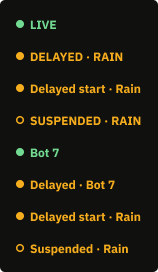
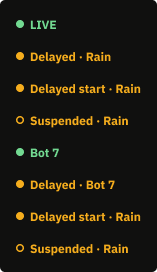
S157 checkpoint (parked for ratification): owner answers Q7, Q8; no open questions left
Records the owner's 2026-11-22 answers in draft game-shell A7: LIVE stays
beside the teams on a phone (Q7), and the top bar's Delayed and Suspended
labels become sentence case like the delayed start (Q8). Edits the
game-status-marker top-bar variants to match and re-exports the states sheet
and the delayed and suspended game frames. Every open question is answered;
the draft waits only on the owner's go-ahead.

Claude-Session: https://claude.ai/code/session_01FZHj4EBjV739EMZ8H6ygfG

diff --git a/docs/v3/visual/game-shell/amendments/A7.md b/docs/v3/visual/game-shell/amendments/A7.md
@@ -2,7 +2,7 @@
 
 Amends the ratified [game-shell design](../DESIGN.md) (ratified 2026-10-14) and its amendments [A1](A1.md)–[A6](A6.md), and, for the scoreboard's game rows, the ratified [shell-scoreboard design](../../shell-scoreboard/DESIGN.md) and its amendments. Story **S157**; a build story, added once this amendment is ratified, builds it. **Draft, not ratified.** Nothing here is ratified until the owner says so; until then the frames and the component are a proposal.
 
-**Adds:** the `game-status-marker` component set (Components page): the dot and label that say a game's status, in four states, `State=Live`, `State=Delayed`, `State=Delayed start` and `State=Suspended`, each in two places, `Place=Top bar` (inside the `game-topbar`) and `Place=Row` (the top-left of a scoreboard game row, the `Rich Scoreboard Module`). A delayed game reads "● DELAYED · RAIN" in the top bar and "● Delayed · Bot 3" on its row, with a steady `Accent` dot; a game whose start is delayed reads "● Delayed start · Rain" in its pre-game top bar (sentence case, owner, 2026-11-22, Q6) and "● Delayed start · Rain" on its row, with the same steady `Accent` dot; a suspended game reads "○ SUSPENDED · RAIN" in the top bar and "○ Suspended · Rain" on its row, with a steady `Accent` ring. On a phone, a delayed, delayed-start or suspended game's marker sits on its own line under the team names (owner, 2026-11-22, Q5): the `game-topbar` component now wraps, and holds a `status-line` (hidden unless a phone shows one of those three states) with a marker instance, below `NYY @ BOS`.
+**Adds:** the `game-status-marker` component set (Components page): the dot and label that say a game's status, in four states, `State=Live`, `State=Delayed`, `State=Delayed start` and `State=Suspended`, each in two places, `Place=Top bar` (inside the `game-topbar`) and `Place=Row` (the top-left of a scoreboard game row, the `Rich Scoreboard Module`). Every label but "LIVE" is sentence case (owner, 2026-11-22, Q6 and Q8). A delayed game reads "● Delayed · Rain" in the top bar and "● Delayed · Bot 3" on its row, with a steady `Accent` dot; a game whose start is delayed reads "● Delayed start · Rain" in its pre-game top bar and "● Delayed start · Rain" on its row, with the same steady `Accent` dot; a suspended game reads "○ Suspended · Rain" in the top bar and "○ Suspended · Rain" on its row, with a steady `Accent` ring. On a phone, a delayed, delayed-start or suspended game's marker sits on its own line under the team names (owner, 2026-11-22, Q5), while a game in progress keeps "● LIVE" beside the teams (owner, 2026-11-22, Q7): the `game-topbar` component now wraps, and holds a `status-line` (hidden unless a phone shows one of those three states) with a marker instance, below `NYY @ BOS`.
 **Overrides:** the live indicator drawn in the `game-topbar` ("● LIVE", S36 R6) and the live row's status ("● Bot 7", shell-scoreboard frames): both were copies of one dot and label, and both are now instances of `game-status-marker` at `State=Live`, which looks exactly as they did (an `Accent 2` dot, blinking, and its label). Neither is shown for a delayed or suspended game any more: the marker's other states replace them. Also overrides game-shell DESIGN's "No status" in the top bar for one pre-game case: a game whose start is delayed shows the marker before first pitch (owner, 2026-11-22, Q1); the `Rich Scoreboard Module`'s scheduled row holds a hidden `State=Delayed start` instance in its `status-group`, shown in place of the start time for such a game.
 **Repeals:** nothing.
 
@@ -14,13 +14,13 @@ Every export is a 1× PNG of the Figma frame with the same name, exported 2026-1
 
 | Export | Pairing | What it shows |
 | ------ | ------- | ------------- |
-| `status-marker-states.png` | — | The `game-status-marker` component set: `Place=Top bar` with `State=Live` ("● LIVE", `Accent 2` dot), `State=Delayed` ("● DELAYED · RAIN", `Accent` dot), `State=Delayed start` ("● Delayed start · Rain", `Accent` dot) and `State=Suspended` ("○ SUSPENDED · RAIN", an `Accent` ring), and `Place=Row` with the same four states ("● Bot 7", "● Delayed · Bot 7", "● Delayed start · Rain", "○ Suspended · Rain"). |
+| `status-marker-states.png` | — | The `game-status-marker` component set: `Place=Top bar` with `State=Live` ("● LIVE", `Accent 2` dot), `State=Delayed` ("● Delayed · Rain", `Accent` dot), `State=Delayed start` ("● Delayed start · Rain", `Accent` dot) and `State=Suspended` ("○ Suspended · Rain", an `Accent` ring), and `Place=Row` with the same four states ("● Bot 7", "● Delayed · Bot 7", "● Delayed start · Rain", "○ Suspended · Rain"). |
 | `status-marker-game-live-mobile.png` | mobile | For contrast, a game in progress (NYY @ BOS, Bot 7th): the top bar reads "● LIVE", the green dot blinking, as ratified. |
 | `status-marker-game-live-desktop.png` | desktop | The same game in progress beside the rail: "● LIVE". |
-| `status-marker-game-delayed-mobile.png` | mobile | The same game in a rain delay (MLB `I`, `IR` "Delayed: Rain"): the Live room shows everything so far, and the top bar reads "● DELAYED · RAIN", a steady `Accent` dot, on its own line under `NYY @ BOS` (the top bar grows from 56 to 80px), in place of "● LIVE" beside the teams. |
-| `status-marker-game-delayed-desktop.png` | desktop | The same delayed game beside the rail: "● DELAYED · RAIN". |
-| `status-marker-game-suspended-mobile.png` | mobile | The same game suspended (MLB `T`/`U`): the Live room shows everything so far, and the top bar reads "○ SUSPENDED · RAIN", a steady `Accent` ring, on its own line under `NYY @ BOS`, in place of "● LIVE" beside the teams. |
-| `status-marker-game-suspended-desktop.png` | desktop | The same suspended game beside the rail: "○ SUSPENDED · RAIN". |
+| `status-marker-game-delayed-mobile.png` | mobile | The same game in a rain delay (MLB `I`, `IR` "Delayed: Rain"): the Live room shows everything so far, and the top bar reads "● Delayed · Rain", a steady `Accent` dot, on its own line under `NYY @ BOS` (the top bar grows from 56 to 80px), in place of "● LIVE" beside the teams. |
+| `status-marker-game-delayed-desktop.png` | desktop | The same delayed game beside the rail: "● Delayed · Rain". |
+| `status-marker-game-suspended-mobile.png` | mobile | The same game suspended (MLB `T`/`U`): the Live room shows everything so far, and the top bar reads "○ Suspended · Rain", a steady `Accent` ring, on its own line under `NYY @ BOS`, in place of "● LIVE" beside the teams. |
+| `status-marker-game-suspended-desktop.png` | desktop | The same suspended game beside the rail: "○ Suspended · Rain". |
 | `status-marker-game-delayed-start-mobile.png` | mobile | The same game before first pitch, its start delayed by rain (MLB `P`, `PR` "Delayed Start: Rain"): no Live room yet (the pre-game tabs, Videos, Plays and Box), and the top bar reads "● Delayed start · Rain", a steady `Accent` dot, on its own line under `NYY @ BOS`, where a scheduled game shows no status. The game is in its live window, so the footer opens with A13's strip. |
 | `status-marker-game-delayed-start-desktop.png` | desktop | The same delayed start beside the rail: "● Delayed start · Rain" beside the teams, the pre-game tabs. |
 | `status-marker-scoreboard-mobile.png` | mobile | The scoreboard for Sep 21, 2026 with four games: Yankees–Red Sox suspended ("○ Suspended · Rain"), Dodgers–Padres in progress ("● Bot 7", green, blinking), Cubs–Brewers in a rain delay ("● Delayed · Bot 3"), each keeping its score and its slot (the count), and Phillies–Mets with a delayed start ("● Delayed start · Rain · Citi Field", in place of its start time), a scheduled row keeping its probable pitchers and win probability. |
@@ -30,17 +30,17 @@ Medium is not drawn: the top bar at medium is the desktop one (the marker beside
 
 ## Decisions
 
-Recorded as the owner stated them. On #79, 2026-11-20, of suspended games: "It should look like a live game in the UI in that the user should be able to see what happened so far in the game, but it should be clear to the user that the game is suspended and polling should continue for up to 6 hours." Asked how to handle it, the owner chose "Fix now, design after (Recommended)", offered as "A design story then draws a status label for suspended (and delayed) games for you to ratify". On #72, 2026-11-17, of rain delays: "Yes, a rain delay should show the live tab." On 2026-11-22, shown this draft's open questions, the owner answered Q1, Q3 and Q4 (quoted there); later the same day, shown screenshots of the redrawn frames, Q2, Q5 and Q6 (quoted there).
+Recorded as the owner stated them. On #79, 2026-11-20, of suspended games: "It should look like a live game in the UI in that the user should be able to see what happened so far in the game, but it should be clear to the user that the game is suspended and polling should continue for up to 6 hours." Asked how to handle it, the owner chose "Fix now, design after (Recommended)", offered as "A design story then draws a status label for suspended (and delayed) games for you to ratify". On #72, 2026-11-17, of rain delays: "Yes, a rain delay should show the live tab." On 2026-11-22, shown this draft's open questions, the owner answered Q1, Q3 and Q4 (quoted there); later the same day, shown screenshots of the redrawn frames, Q2, Q5 and Q6, and then, shown the phone top bars and the states image, Q7 and Q8 (all quoted there).
 
 What the draft proposes (agent's reading of those words, for the owner to ratify or change):
 
-- **Marker:** a dot and a label, as the ratified live indicator is: an 8px dot, then 6px, then the label in 12px IBM Plex Sans Bold, in the dot's colour, no pill and no background (VISUAL-DESIGN's live role). In the top bar "LIVE", "DELAYED · …" and "SUSPENDED · …" are upper case, as "LIVE" was ratified (the owner's Q3 answer has "SUSPENDED · RAIN" there and "Suspended · Rain" on the row); a delayed start is sentence case there too, "Delayed start · Rain" (owner, 2026-11-22, Q6; whether that answer also turns DELAYED and SUSPENDED into sentence case is open question 8); on a row every label is sentence case, as "Bot 7" is. Delayed, delayed start and suspended use `Accent` gold, a dot for a delay and a ring for a suspension, as drawn (owner, 2026-11-22, Q2).
+- **Marker:** a dot and a label, as the ratified live indicator is: an 8px dot, then 6px, then the label in 12px IBM Plex Sans Bold, in the dot's colour, no pill and no background (VISUAL-DESIGN's live role). In the top bar "LIVE" stays upper case, as ratified, and the other three are sentence case, so they read alike: "Delayed · Rain", "Delayed start · Rain", "Suspended · Rain" (owner, 2026-11-22, Q6 and Q8); on a row every label is sentence case, as "Bot 7" is. Delayed, delayed start and suspended use `Accent` gold, a dot for a delay and a ring for a suspension, as drawn (owner, 2026-11-22, Q2).
 - **One component:** `game-status-marker` is one component set with a variant per state and place, and every frame places an instance of it: the `game-topbar` component's `live-indicator` and the `Rich Scoreboard Module`'s live `status-group` now each hold an instance (`State=Live`), so the ratified frames look as they did, and a change to the marker reaches every frame. Before this the dot and label were drawn twice, as copies (the top bar's "● LIVE" and the row's "● Bot 7"); they were alike but for their words, so nothing had to be chosen between them.
-- **Codes:** `State=Live` is a game in progress: MLB `I` with no delay reason (`I` "In Progress", `IH` "Instant Replay"), a manager challenge `M` and an umpire review `N`. `State=Delayed` is an in-game delay: MLB `I` whose detailed state starts "Delayed" (`IR` "Delayed: Rain", and `I9`, `IA`–`IG`, `II`, `IL`, `IO`, `IP`, `IS`, `IT`, `IV`, `IY`, `IZ`); its label names MLB's reason after the dot ("DELAYED · RAIN"; plain "DELAYED" for `IO`, which gives none). `State=Delayed start` is a start delayed before first pitch: MLB `P` whose detailed state starts "Delayed Start" (`PR` "Delayed Start: Rain", and `P9`, `PA`–`PG`, `PI`, `PL`, `PO`, `PP`, `PS`, `PV`, `PY`), its label naming MLB's reason ("Delayed start · Rain"; plain "Delayed start" for `PO`, which gives none); `P` "Pre-Game" and `PW` "Warmup" get no marker (owner, 2026-11-22, Q1). `State=Suspended` is MLB's `T` and `U`, every code, its label naming MLB's reason after the dot ("SUSPENDED · RAIN" for `TR`/`UR`; plain "SUSPENDED" for `T`, `TO`, `U` and `UO`, which give none; owner, 2026-11-22, Q3) (B81's code list, `packages/domain/src/window.ts`).
-- **Top bar:** the marker takes the live indicator's place, after `NYY @ BOS` (on a phone, a delayed, delayed-start or suspended marker goes on its own line under the team names instead, left-aligned with `NYY`, owner, 2026-11-22, Q5; whether "● LIVE" moves there too on a phone is open question 7, and until it is answered it stays beside the teams, as ratified), for a game in progress, delayed or suspended; a game whose start is delayed shows it before first pitch, with the pre-game tabs and no Live room; any other scheduled game, and a final one, shows none, as ratified (game-shell DESIGN, "No status"). The Live tab stays for a game in progress, delayed or suspended, so the play so far stays visible (owner, 2026-11-20).
+- **Codes:** `State=Live` is a game in progress: MLB `I` with no delay reason (`I` "In Progress", `IH` "Instant Replay"), a manager challenge `M` and an umpire review `N`. `State=Delayed` is an in-game delay: MLB `I` whose detailed state starts "Delayed" (`IR` "Delayed: Rain", and `I9`, `IA`–`IG`, `II`, `IL`, `IO`, `IP`, `IS`, `IT`, `IV`, `IY`, `IZ`); its label names MLB's reason after the dot ("Delayed · Rain"; plain "Delayed" for `IO`, which gives none). `State=Delayed start` is a start delayed before first pitch: MLB `P` whose detailed state starts "Delayed Start" (`PR` "Delayed Start: Rain", and `P9`, `PA`–`PG`, `PI`, `PL`, `PO`, `PP`, `PS`, `PV`, `PY`), its label naming MLB's reason ("Delayed start · Rain"; plain "Delayed start" for `PO`, which gives none); `P` "Pre-Game" and `PW` "Warmup" get no marker (owner, 2026-11-22, Q1). `State=Suspended` is MLB's `T` and `U`, every code, its label naming MLB's reason after the dot ("Suspended · Rain" for `TR`/`UR`; plain "Suspended" for `T`, `TO`, `U` and `UO`, which give none; owner, 2026-11-22, Q3) (B81's code list, `packages/domain/src/window.ts`).
+- **Top bar:** the marker takes the live indicator's place, after `NYY @ BOS` (on a phone, a delayed, delayed-start or suspended marker goes on its own line under the team names instead, left-aligned with `NYY`, owner, 2026-11-22, Q5; a game in progress keeps "● LIVE" beside the teams on a phone too, as ratified, owner, 2026-11-22, Q7), for a game in progress, delayed or suspended; a game whose start is delayed shows it before first pitch, with the pre-game tabs and no Live room; any other scheduled game, and a final one, shows none, as ratified (game-shell DESIGN, "No status"). The Live tab stays for a game in progress, delayed or suspended, so the play so far stays visible (owner, 2026-11-20).
 - **Scoreboard row:** the marker takes the status place at the top-left of the row. A delayed game keeps the inning after the state ("Delayed · Bot 3"); a suspended game names the reason instead ("Suspended · Rain", owner, 2026-11-22, Q3); the score, the team rows and the slot stay as for a live game. A delayed start replaces the start time ("Delayed start · Rain · Citi Field") and the row otherwise stays a scheduled row (probable pitchers, win probability).
 - **Motion:** only `State=Live` blinks (VISUAL-DESIGN's slow live blink); delayed, delayed start and suspended are steady, since nothing is happening, and so need nothing under reduced motion.
-- **Resumed:** once a suspended or delayed game resumes (MLB reports it `I` again with no delay reason), the marker goes back to `State=Live`, "● LIVE" and "● Bot 7", blinking, with nothing to say it was stopped, and once it ends it reads Final like any other game (owner, 2026-11-22, Q4). A delayed start that begins goes to `State=Live` the same way. A suspended game that BT stops polling (6 hours after it saw it turn suspended, B81) keeps "○ SUSPENDED · …" from its last stored status until a schedule read sees it resume or end. A suspended game that resumes on a later day reads "● LIVE" on that day; the earlier day's row reads whatever BT last stored for it.
+- **Resumed:** once a suspended or delayed game resumes (MLB reports it `I` again with no delay reason), the marker goes back to `State=Live`, "● LIVE" and "● Bot 7", blinking, with nothing to say it was stopped, and once it ends it reads Final like any other game (owner, 2026-11-22, Q4). A delayed start that begins goes to `State=Live` the same way. A suspended game that BT stops polling (6 hours after it saw it turn suspended, B81) keeps "○ Suspended · …" from its last stored status until a schedule read sees it resume or end. A suspended game that resumes on a later day reads "● LIVE" on that day; the earlier day's row reads whatever BT last stored for it.
 - **Footer:** unchanged: A13's "● Live Data · Active" strip follows the page's live connection, not the game's state, so a delayed, delayed-start or suspended game whose page is still connected shows it (drawn so in the game frames).
 
 ## Open questions
@@ -51,12 +51,12 @@ What the draft proposes (agent's reading of those words, for the owner to ratify
 4. **Q4.** **Once a suspended game has resumed and finished, should anything say it was suspended (for example on the earlier day's scoreboard row), or is a plain Final enough?** **Answered 2026-11-22:** *"Plain Final (Recommended)"*. Nothing to redraw: a resumed game reads "● LIVE" and then Final like any other (Resumed, above).
 5. **Q5.** **On a phone, the longer top-bar labels no longer fit beside the date: which should give way?** At 390px "○ SUSPENDED · RAIN" touched the date and "● DELAYED START · RAIN" overlapped it. **Answered 2026-11-22:** *"Marker on its own line"* (the option read: under the team names, on a phone). Redrawn 2026-11-22: the `game-topbar` component wraps and holds a hidden `status-line` with a marker instance; the delayed, delayed-start and suspended phone frames show it under `NYY @ BOS`, the top bar 80px tall.
 6. **Q6.** **In the top bar, should a delayed start read "● DELAYED START · RAIN" in upper case, like LIVE, DELAYED and SUSPENDED there? (The row stays "Delayed start · Rain".)** **Answered 2026-11-22:** *"Sentence case everywhere"* (the option read: "● Delayed start · Rain" in the top bar too). Redrawn 2026-11-22: `Place=Top bar, State=Delayed start` reads "Delayed start · Rain".
-7. **Q7.** **On a phone, should a game in progress's "● LIVE" also move to its own line under the team names, like the delay and suspension markers, or stay beside the teams as ratified?** Your Q5 answer was about the longer labels that didn't fit; "● LIVE" fits beside the teams. As drawn it stays there (`status-marker-game-live-mobile`), so on a phone the marker's place depends on the state. Moving it too would put every status in one place on a phone and make every live game's phone top bar 80px tall.
-8. **Q8.** **Should DELAYED and SUSPENDED in the top bar become sentence case too ("● Delayed · Rain", "○ Suspended · Rain"), as your "Sentence case everywhere" answer could be read, or stay upper case like "LIVE"?** That answer was given to a question about the delayed start only, so as drawn only the delayed start is sentence case in the top bar ("● Delayed start · Rain"), beside upper-case "● DELAYED · RAIN" and "○ SUSPENDED · RAIN" (`status-marker-states`).
+7. **Q7.** **On a phone, should a game in progress's "● LIVE" also move to its own line under the team names, like the delay and suspension markers, or stay beside the teams as ratified?** Your Q5 answer was about the longer labels that didn't fit; "● LIVE" fits beside the teams. **Answered 2026-11-22:** *"Keep LIVE beside the teams (Recommended)"*. Nothing to redraw: `status-marker-game-live-mobile` already shows it there.
+8. **Q8.** **Should DELAYED and SUSPENDED in the top bar become sentence case too ("● Delayed · Rain", "○ Suspended · Rain"), to match the delayed start, or stay upper case like "LIVE"?** **Answered 2026-11-22:** *"Sentence case for all three (Recommended)"* (the option read: "Delayed, Delayed start and Suspended read alike; LIVE stays upper case."). Redrawn 2026-11-22: `Place=Top bar, State=Delayed` reads "Delayed · Rain" and `Place=Top bar, State=Suspended` reads "Suspended · Rain"; `status-marker-states` and the delayed and suspended game frames re-exported.
 
 ## Ratification
 
-Not ratified: awaiting the owner's answers to the open questions and then the owner's go-ahead.
+Not ratified: every open question is answered; awaiting the owner's go-ahead.
 
 ## Manifest
 
